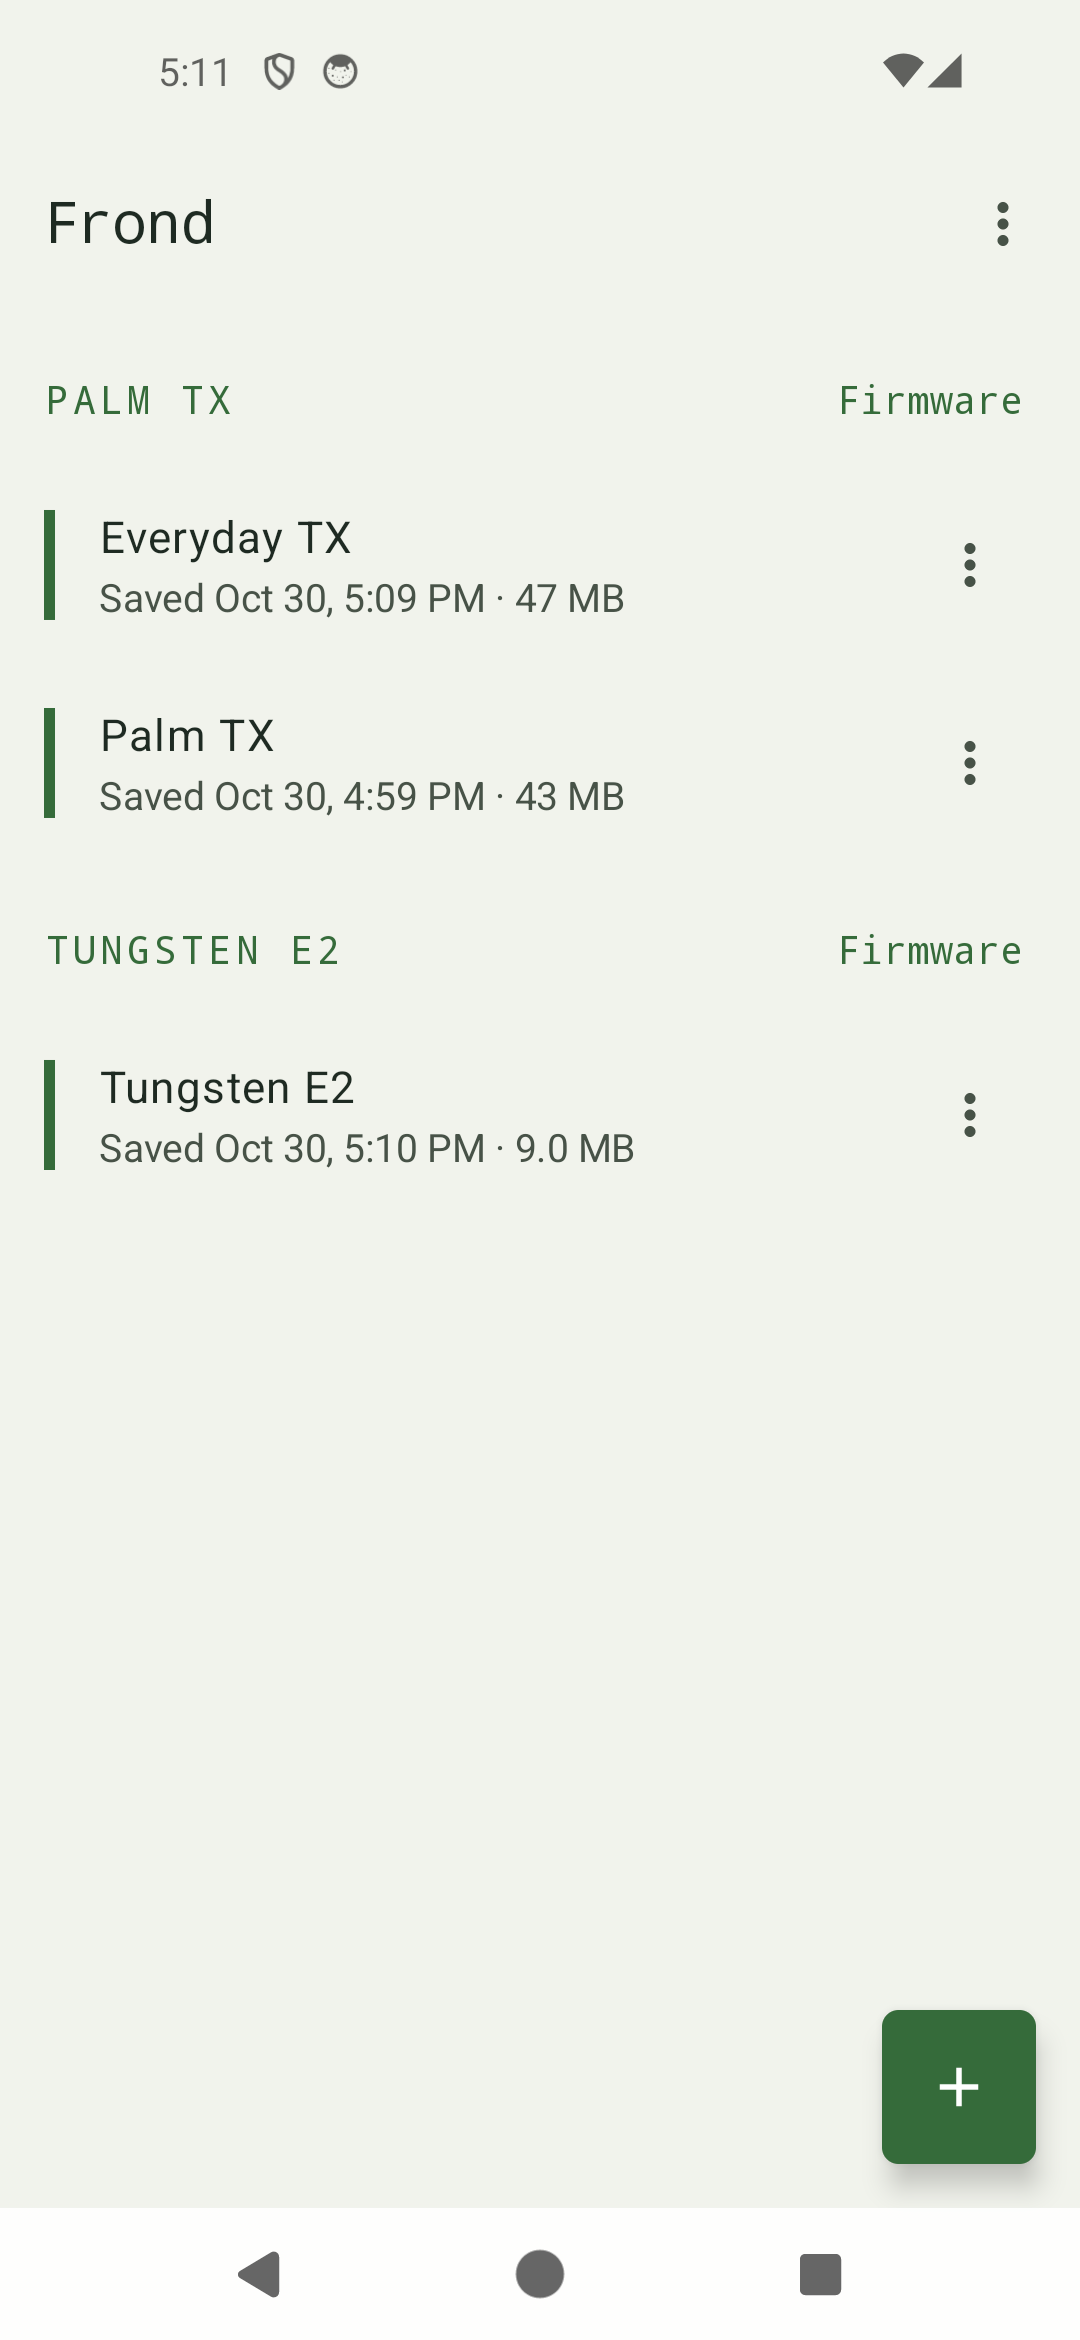
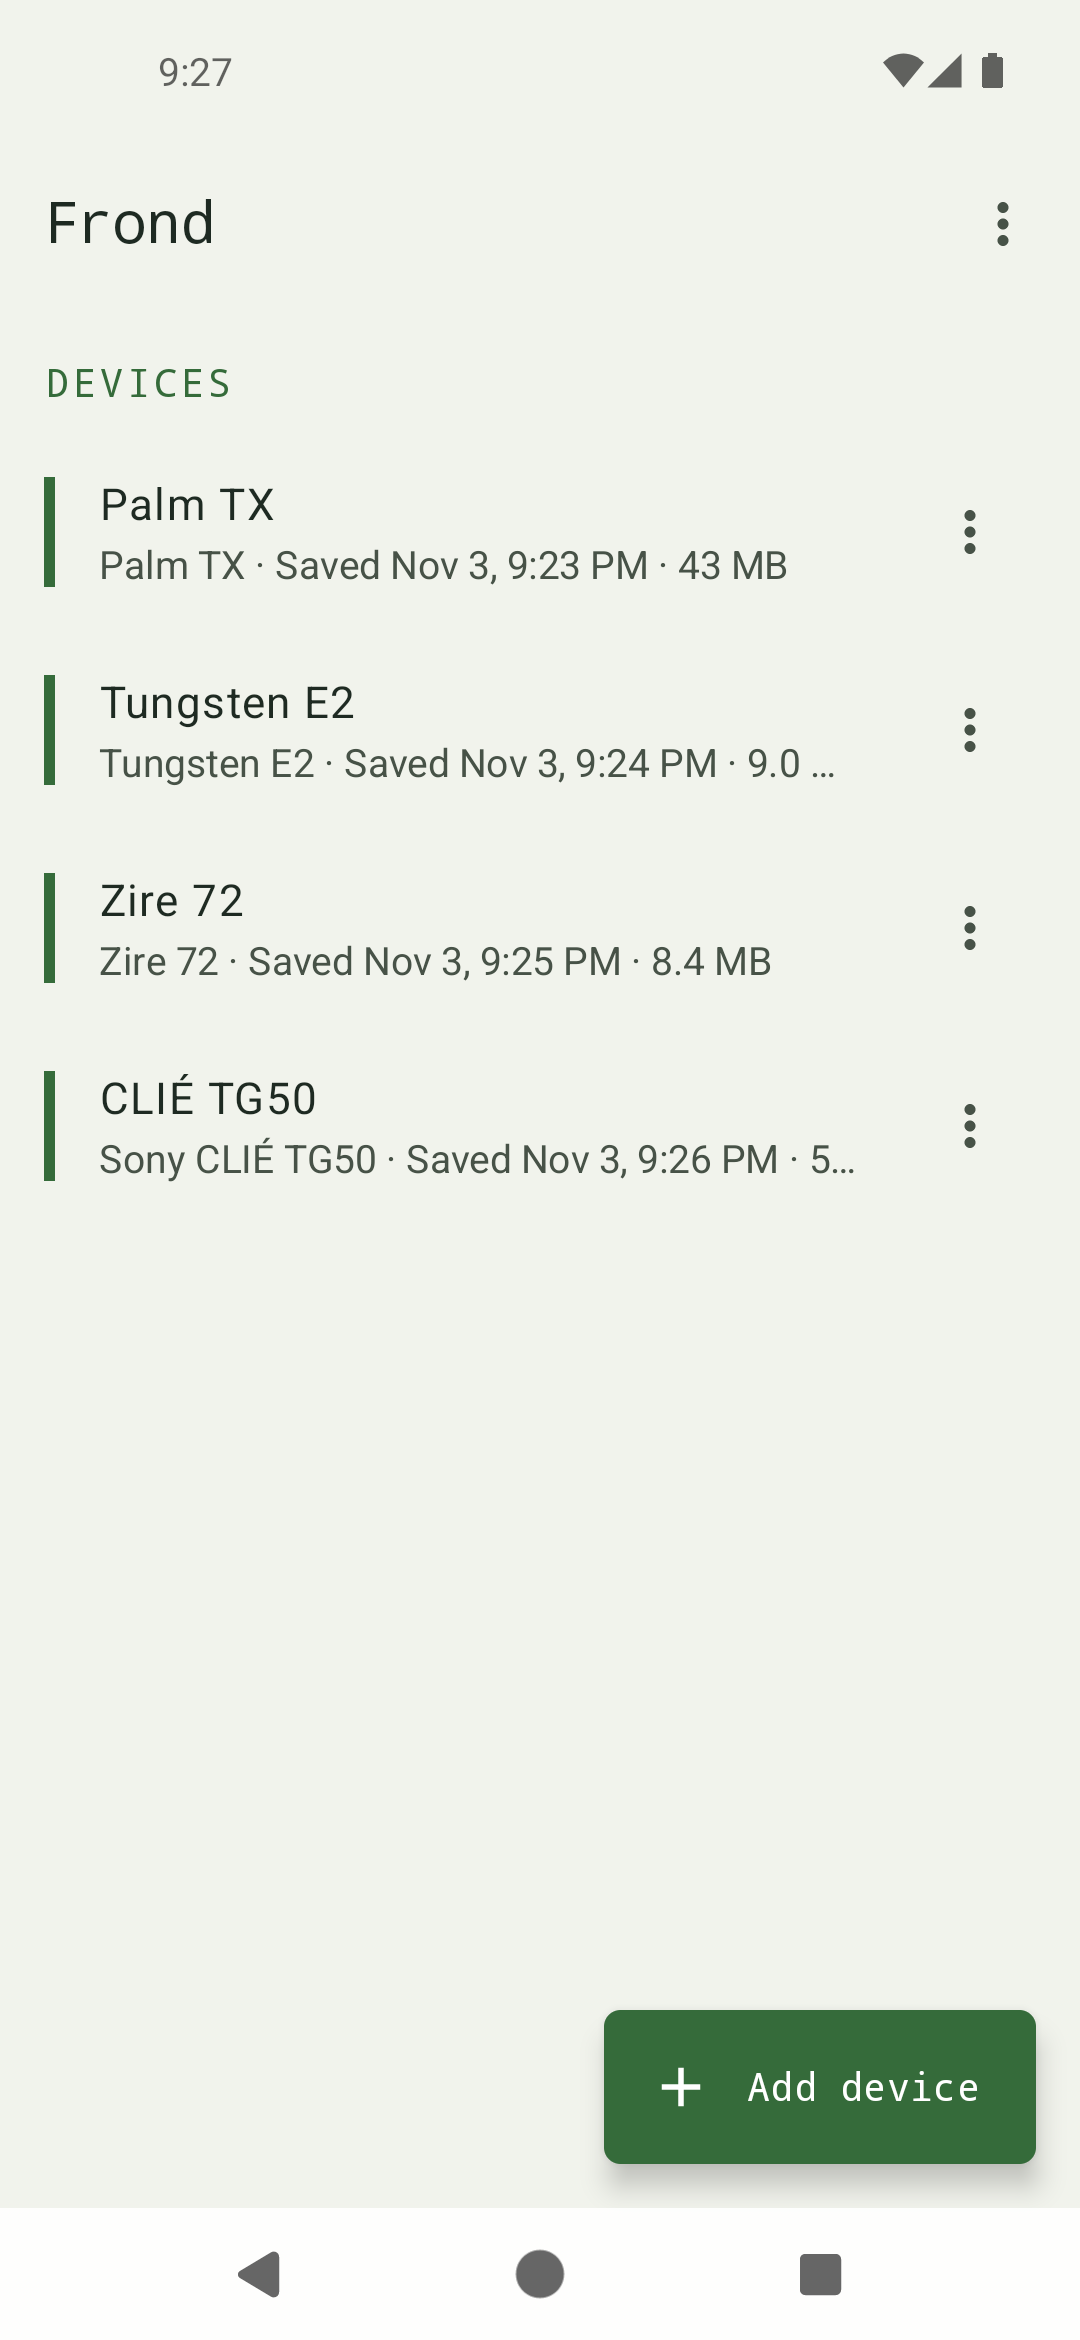
Update the README with screenshots of each device and shorter text

diff --git a/README.md b/README.md
@@ -1,38 +1,34 @@
 # Frond
 
-Frond is a Palm OS emulator for Linux and Android, based on [CloudpilotEmu](https://github.com/cloudpilot-emu/cloudpilot-emu), made for running and developing Palm apps and games.
+Frond is a Palm OS emulator for Linux and Android, based on [CloudpilotEmu](https://github.com/cloudpilot-emu/cloudpilot-emu) and [uARM](https://github.com/uARM-Palm/uARM), for running and developing Palm apps and games.
 
-Currently it emulates the Palm T|X, the Tungsten E2 and the Zire 72, with sound, SD support, networking, saved sessions and more. The Sony CLIÉ TG50 is experimental, with its built-in keyboard, infrared beaming, Memory Stick storage, USB HotSync and Bluetooth.
-Look below to see the features in more detail. More devices are planned.
+It runs the Palm T|X, Tungsten E2 and Zire 72, plus the Sony CLIÉ TG50 as experimental, with sound, SD cards, networking, saved sessions and more. More devices are planned.
 
-To run this you will need to provide Palm T|X, E2, Zire 72 or Sony CLIÉ TG50 device firmware - none are included.
+You need firmware for each device, none is included.
 
-Let me know what works, what doesn't and what you'd like in #frond [on my discord](https://discord.gg/9Wun47jGC6).. or open an issue here.
+Let me know what works, what doesn't and what you'd like in #frond [on my discord](https://discord.gg/9Wun47jGC6), or open an issue here.
 
 Enjoy!<br>
 Dan
 
 <table>
   <tr>
-    <td align="center"><img src="doc/images/android-home.png" width="200" alt="The Frond home screen with saved TX and E2 sessions" /><br>Sessions</td>
-    <td align="center"><img src="doc/images/android-tx-launcher.png" width="200" alt="The Palm TX launcher on a phone, with the button bar below it" /><br>T|X launcher</td>
-    <td align="center"><img src="doc/images/android-e2-calc.png" width="200" alt="Calculator on the Tungsten E2, with its silkscreen and buttons" /><br>E2 Calculator</td>
+    <td align="center"><img src="doc/images/android-home.png" width="200" alt="The Frond home screen listing the T|X, E2, Zire 72 and TG50" /><br>Devices</td>
+    <td align="center"><img src="doc/images/android-tx.png" width="200" alt="The Palm T|X favourites launcher with its button bar" /><br>Palm T|X</td>
+    <td align="center"><img src="doc/images/android-e2.png" width="200" alt="Calculator on the Tungsten E2, with its silkscreen and buttons" /><br>Tungsten E2</td>
   </tr>
   <tr>
-    <td align="center"><img src="doc/images/android-tx-calendar.png" width="200" alt="Calendar month view on the Palm TX" /><br>T|X Calendar</td>
+    <td align="center"><img src="doc/images/android-zire72.png" width="200" alt="The Zire 72 agenda view over its photo wallpaper, with silkscreen and buttons" /><br>Zire 72</td>
+    <td align="center"><img src="doc/images/android-tg50.png" width="200" alt="The CLIÉ TG50 launcher with its jog bar and keyboard" /><br>CLIÉ TG50</td>
     <td align="center"><img src="doc/images/android-peripherals.png" width="200" alt="The peripherals screen with the SD card, infrared, Bluetooth, serial, USB and network" /><br>Peripherals</td>
-    <td align="center"><img src="doc/images/android-settings.png" width="200" alt="Settings for screen size, orientation, sound and game controller buttons" /><br>Settings</td>
   </tr>
 </table>
 
 ## Getting it
 
-On Linux (amd64, or arm64 for a Raspberry Pi), add my apt repo as shown on https://hunke.ws/apt/ and run `sudo apt install frond`.
-The package adds Frond to the application menu.
-
-On Android 8 and up, phones and tablets, add my F-Droid repo https://hunke.ws/fdroid/repo
-in your F-Droid client, and updates come with it. The APK is also on the
-[GitHub releases](https://github.com/roge-rm/frond/releases) page, with the Debian package.
+- Linux (amd64, or arm64 for a Raspberry Pi): add my apt repo as shown on https://hunke.ws/apt/ and run `sudo apt install frond`. It shows up in the application menu.
+- Android 8 and up: add my F-Droid repo https://hunke.ws/fdroid/repo in your F-Droid client and updates come with it.
+- The APK and Debian packages are also on the [GitHub releases](https://github.com/roge-rm/frond/releases) page.
 
 To build it yourself on Debian 13 (Trixie):
 
@@ -45,9 +41,7 @@ make -j4
 ./out/frond-desktop
 ```
 
-`make deb` builds a Debian package instead (also needs `dpkg-dev` and `binutils`), which
-installs with `sudo apt install ./out/frond_0.10.1-1_amd64.deb`. Neither the packages nor
-the APK include firmware or Palm apps.
+`make deb` builds a Debian package in `out/` instead, which also needs `dpkg-dev` and `binutils`. Neither the packages nor the APK include firmware or Palm apps.
 
 ## Firmware
 
@@ -58,89 +52,66 @@ the APK include firmware or Palm apps.
 | Zire 72 | 14,942,208 bytes | none |
 | Sony CLIÉ TG50 | 13,041,664 bytes | none |
 
-Frond detects the device from the NOR and reads the files without changing them. On
-Linux use **File → Firmware…** or click **Add device**; on Android import them when you
-add a device. Go through Palm OS setup the first time. If taps land in the wrong place,
-calibrate the screen in Palm Preferences.
+Frond works out the device from the NOR and never changes the files. On Linux use File → Firmware… or Add device, on Android import them when you add a device. Go through Palm OS setup the first time, and if taps land in the wrong place, calibrate the screen in Prefs.
 
 ## Using it
 
-**Sessions.** Each Palm you run is a saved session. On Linux and Android sessions are
-listed on the home screen (Devices) and can be renamed, exported, imported and deleted.
-On Linux, closing the window saves it and Frond offers to resume it next time, **Save and
-Stop** goes back to the list and **Save a copy…** keeps a separate snapshot. There's no autosave,
-so a crash loses what changed since the last save. Sessions hold your firmware and
-personal data, so keep them private. **Hard reset** in the session controls erases the Palm
-(**Save first** saves the session before); the TX and E2 ask first, press up to erase; the Zire erases straight away.
+### Sessions
 
-Each machine keeps its own display, smoothing and sound settings. Set them when adding
-a machine, or use **Edit settings** while it is stopped.
+Each Palm you run is a saved session, listed on the home screen, where you can rename, export, import and delete them. There's no autosave, so a crash loses what changed since the last save. On Linux closing the window saves it, Save and Stop goes back to the list and Save a copy… keeps a separate snapshot. Sessions hold your firmware and personal data, so keep them private.
 
-**Screen.** On Linux choose a scale from 1× to 2× in 0.25 steps before starting; Frond
-defaults to the largest that fits. LCD pixels stay sharp, and **Smooth LCD scaling**
-softens them if you prefer. On Android the screen fits the phone, in whole steps or
-filling it, and follows the phone or stays in portrait or landscape.
+Hard reset in the session controls erases the Palm, and Save first saves it before. The TX and E2 ask first (press up to erase), the Zire erases straight away.
 
-**Buttons.** The buttons under the screen and the E2's and Zire's silkscreens can be clicked or
-tapped. On a keyboard the arrow keys work the five-way, Enter selects and F1 to F4 are
-the app buttons; **Help → Hardware Keyboard Controls** lists them all. On Android game
-controllers press the Palm's buttons, and you can change which button does what in
-Settings. The TG50 has its built-in keyboard, jog wheel, Home, Back and Hold controls.
-Hold locks the controls and turns off its panel while audio can keep playing. These
-models can also use an emulated Palm infrared keyboard for typing, which needs
-Palm's keyboard driver.
+Each machine has its own display, smoothing and sound settings. Set them when you add it, or with Edit settings while it's stopped. On Android the menu while it runs has them too.
 
-**Apps and SD cards.** Install PRC and PDB files with **File → Install Application**
-on Linux, or **Install application** on the Peripherals screen on Android. Frond makes and imports SD card images and
-copies files between your computer or phone and an ejected card (**SD Card →
-Exchange Files…** on Linux). Close files on the Palm before ejecting.
+### Screen
 
-The TG50 uses a classic 128 MB Memory Stick, with card image import/export and
-**Files** for folders and file transfers. File names use printable ASCII and transfers
-are limited to 8 MiB each. Sony Launcher can run applications from its Card category.
-See [Memory Stick storage](doc/memory-stick.md) for the controls and image format.
+On Linux pick a scale from 1× to 2× in 0.25 steps before starting, it defaults to the largest that fits. On Android the screen fits the phone, in whole steps or filling it, and follows the phone or stays in portrait or landscape. Pixels stay sharp unless you turn on Smooth LCD scaling.
 
-**Peripherals.** The E2's and Zire 72's networking and serial stay greyed out, and so does the Zire's camera.
+### Buttons
+
+The buttons under the screen and the E2's and Zire's silkscreens can be clicked or tapped. On a keyboard the arrow keys are the five-way, Enter selects and F1 to F4 are the app buttons, Help → Hardware Keyboard Controls lists them all. On Android game controllers press the Palm's buttons, and you can change which does what in Settings.
+
+The TG50 has its keyboard, jog wheel, Home, Back and Hold. Hold locks the controls and turns off the screen, and audio keeps playing.
+
+You can also type with an emulated Palm infrared keyboard, which needs Palm's keyboard driver.
+
+### Apps and cards
+
+Install PRC and PDB files with File → Install Application on Linux, or Install application on the Peripherals screen on Android.
+
+Frond makes and imports SD card images, up to 2 GB (1 GB on the E2), and copies files between your computer or phone and an ejected card (SD Card → Exchange Files… on Linux). Close files on the Palm before ejecting.
+
+The TG50 takes a Memory Stick from 4 to 128 MB, or a Memory Stick Pro from 256 MB to 2 GB. Files copies files and folders to and from it, up to 8 MiB each. Sony Launcher runs apps from its Card category. See [Memory Stick storage](doc/memory-stick.md).
+
+### Peripherals
 
 | | T\|X | E2 | Zire 72 | TG50 |
 |---|---|---|---|---|
-| Virtual Wi-Fi, onto the internet through your computer or phone, no adapter needed | yes | | | |
+| Virtual Wi-Fi, onto the internet through your computer or phone | yes | | | |
 | Cradle serial port, to a PTY or TCP port for terminal programs | yes | | | yes |
-| Microphone, enabled for the current session | | | | yes |
+| Microphone | | | | yes |
 | USB HotSync over a PTY or TCP port | yes | yes | yes | yes |
 | [Infrared beaming](doc/infrared.md) between Frond instances | yes | yes | yes | yes |
-| [Virtual Bluetooth](doc/bluetooth-provider.md), with a separately started local provider, off by default | yes | yes | yes | yes |
+| [Virtual Bluetooth](doc/bluetooth-provider.md), with a local provider you start yourself | yes | yes | yes | yes |
 
-The infrared keyboard and beaming share the infrared port, so detach the keyboard
-before turning beaming on. On Android infrared, Bluetooth, serial, USB HotSync and the
-gdb server go over the network, to another Frond or to the desktop tools
-`tools/link-irda.py`, `tools/link-bluetooth.py` and `tools/link-pty.py` (for pilot-link).
+The rest stay greyed out until they're done, like the E2's and Zire's networking and serial and the Zire's camera.
 
-The TG50 plays system/alarm beeps and Sony Voice Recorder mono/stereo 8 kHz
-and mono 22,050 Hz audio. Its Microphone control is off at each start; Android asks for microphone
-permission when you turn it on. Saving, stopping or backgrounding turns capture off.
-Raw serial supports virtual PTY/TCP byte transfers; original serial sleep/wake,
-serial HotSync and physical RS-232 remain unqualified. Bluetooth is tested with serial (SPP)
-and object exchange to a virtual peer. Standard Palm SndStream, low-latency audio, remote-control infrared, Memory Stick Pro, MagicGate and Memory Stick audio stay disabled.
+The infrared keyboard and beaming share the port, so detach the keyboard before turning beaming on. On Android infrared, Bluetooth, serial, USB HotSync and the gdb server go over the network, to another Frond or to `tools/link-irda.py`, `tools/link-bluetooth.py` and `tools/link-pty.py` (for pilot-link) on a computer.
 
-**Low-latency audio.** Off by default on the T|X and E2; the Zire 72 and TG50 don't have it yet. It plays one 44.1 kHz stereo
-stream with less delay, for music apps like SunVox, and goes back to the normal path
-when the computer or phone can't keep up. See the [audio limits](doc/fast-audio.md).
+The TG50 plays beeps, alarms and Sony Voice Recorder audio. Its microphone is off at each start, and saving, stopping or going to the background turns it off again. Android asks for permission the first time. Bluetooth is tested with serial (SPP) and object exchange. Standard Palm SndStream, low-latency audio, remote control infrared, MagicGate and Memory Stick audio aren't there yet.
 
-More in the [desktop guide](doc/desktop.md), the
-[peripheral guide](doc/peripherals.md) (SD cards, networking, USB HotSync,
-keyboard), the [serial guide](doc/tx-serial.md) and
-[E2 notes](doc/e2-qualification.md).
+### Low-latency audio
+
+On the T|X and E2, off by default. It plays one 44.1 kHz stereo stream with less delay, for music apps like SunVox, and goes back to the normal path when your computer or phone can't keep up. See the [audio limits](doc/fast-audio.md).
+
+More in the [desktop guide](doc/desktop.md), the [peripheral guide](doc/peripherals.md), the [serial guide](doc/tx-serial.md) and the [E2 notes](doc/e2-qualification.md).
 
 ## For developers
 
-- The [developer runner](doc/developer-run.md) installs and launches apps, exports
-  RAM databases and fetches logs from the command line.
-- The [debugger](doc/debugger.md) works with GDB: ARM and Thumb stepping,
-  breakpoints, PACE inspection and 68k stepping. Watchpoints aren't supported yet.
-  On Android turn on the gdb server in Settings.
-- [Compatibility tests](doc/compatibility.md) check apps for launch, interaction,
-  saved data and restore.
+- The [developer runner](doc/developer-run.md) installs and launches apps, exports RAM databases and fetches logs from the command line.
+- The [debugger](doc/debugger.md) works with GDB: ARM and Thumb stepping, breakpoints, PACE inspection and 68k stepping, no watchpoints yet. On Android turn on the gdb server in Settings.
+- [Compatibility tests](doc/compatibility.md) check apps for launch, interaction, saved data and restore.
 - [Input and audio timing](doc/input-latency.md) tools measure latency.
 
 Tests that need no firmware:
@@ -151,16 +122,10 @@ QT_QPA_PLATFORM=offscreen make test-desktop
 make test-build-tools check-reconstruction
 ```
 
-The upstream core is pinned in `vendor/cloudpilot`, and the ordered patches in
-`patches/` are applied to it in `build/source`. The Android app is in `android/`. See
-[build validation](doc/build-validation.md) and
-[session testing](doc/session-testing.md).
+The upstream core is pinned in `vendor/cloudpilot`, and the ordered patches in `patches/` are applied to it in `build/source`. The Android app is in `android/`. See [build validation](doc/build-validation.md) and [session testing](doc/session-testing.md).
 
 ## Credits and licence
 
-Frond is built on [CloudpilotEmu](https://github.com/cloudpilot-emu/cloudpilot-emu)
-(its execution core, PACE support and SDL frontend) and Dmitry Grinberg's
-[uARM](https://github.com/uARM-Palm/uARM) TX board model. Thanks to their authors.
+Frond is built on [CloudpilotEmu](https://github.com/cloudpilot-emu/cloudpilot-emu) (its execution core, PACE support and SDL frontend) and Dmitry Grinberg's [uARM](https://github.com/uARM-Palm/uARM) TX board model. Thanks to their authors.
 
-GPL-3.0-or-later, see [LICENSE](LICENSE). Palm firmware and apps have their own
-licences and must be supplied separately.
+GPL-3.0-or-later, see [LICENSE](LICENSE). Palm firmware and apps have their own licences and must be supplied separately.
